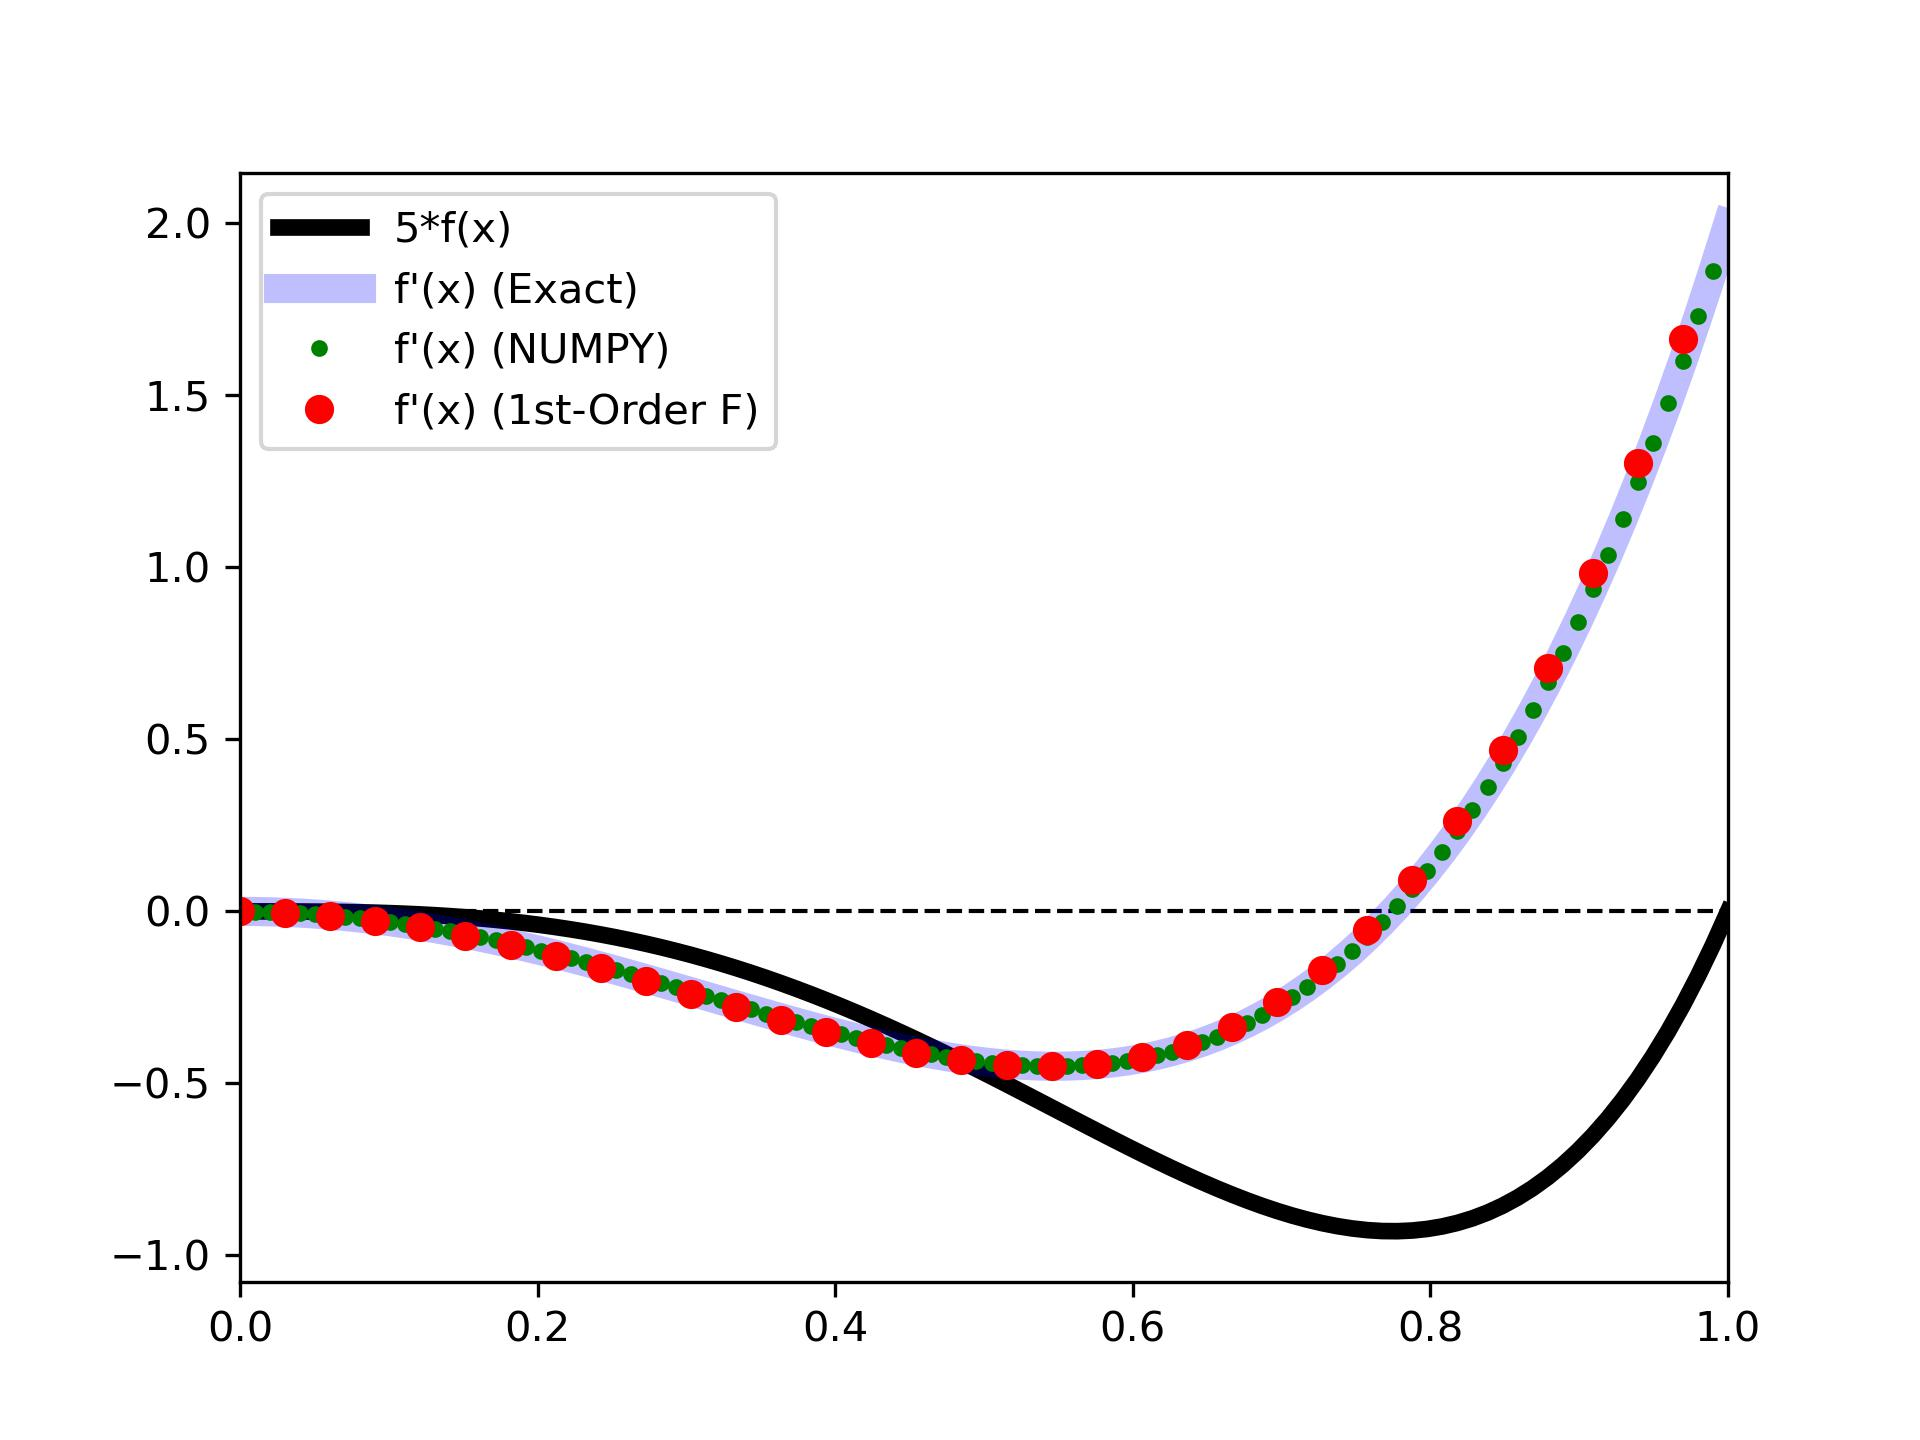
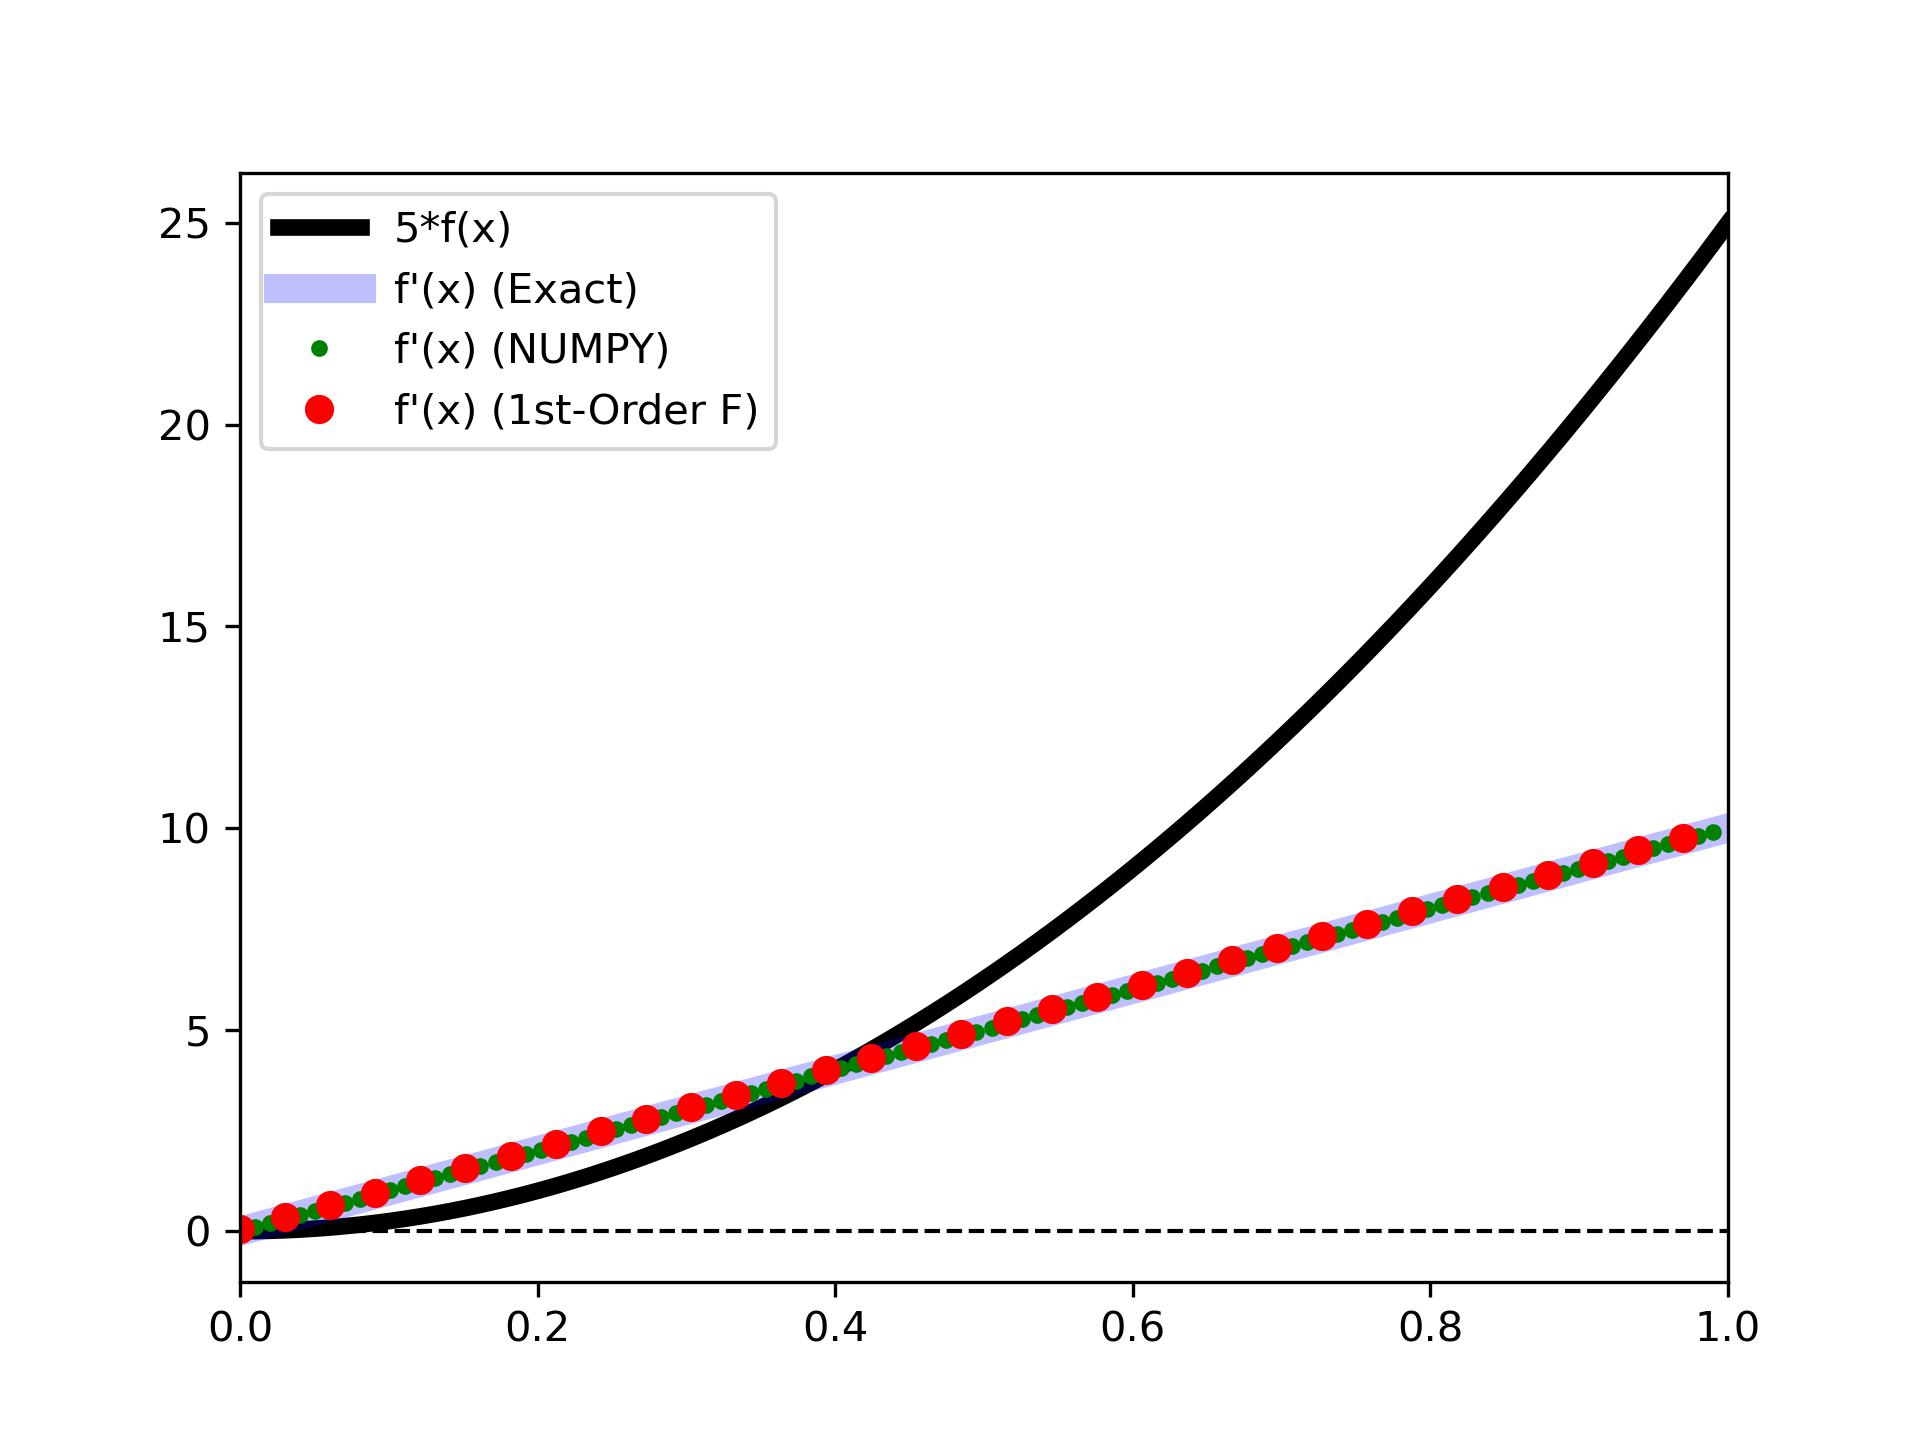
Added integration code

diff --git a/codes/Chapter_3/3_Numerical_Integration.py b/codes/Chapter_3/3_Numerical_Integration.py
@@ -1,0 +1,113 @@
+import numpy as np
+from matplotlib import pyplot as plt
+import subprocess as sp
+from scipy import integrate
+
+
+################# BEGIN USER INPUT #################
+def get_globals():
+    global DATA_DIR
+
+    DATA_DIR = "3_PLOTS_DATA"
+    sp.call(f"mkdir -p {DATA_DIR}",shell=True)
+
+def get_f_x( x ):
+        """
+        'x' can be number or array
+        """
+        return x ** 2
+
+def get_exact_integral():
+    return 1/3
+
+################# END USER INPUT #################
+
+#def get_NUMPY_deriv(f_x):
+#    return np.gradient(f_x,GRID)
+
+def get_Riemann_Integral(f_x, GRID):
+    # For-loop version
+    INTEGRAL = 0.0
+    Nx = len(GRID)
+    dx = GRID[1] - GRID[0]
+    for xi,x in enumerate(GRID):
+        INTEGRAL += f_x[ xi ] * dx
+    """
+    # Fast version
+    INTEGRAL = np.sum( f_x[:] ) * dx
+    """
+    return INTEGRAL
+
+def get_trapazoidal_Integral(f_x, GRID):
+    Nx = len(GRID)
+    dx = GRID[1] - GRID[0]
+    INTEGRAL = 0.0
+    for xi,x in enumerate(GRID):
+        if ( xi < Nx-1 ):
+            INTEGRAL += 0.5 * (f_x[ xi ] + f_x[ xi+1 ] ) * dx
+    return INTEGRAL
+
+def test_methods():
+    # Let's test all the methods once
+    Nx = 100
+    GRID = np.linspace( 0,1,Nx ) # START, END, NPOINTS   
+
+    f_x   = get_f_x( GRID )
+    I_R   = get_Riemann_Integral(f_x, GRID)
+    I_T   = get_trapazoidal_Integral(f_x, GRID)
+    
+    print("\nManual versions:")
+    print("\tRIEMANN      :", I_R)
+    print("\tTRAPAZOIDAL  :", I_T)
+    
+    print("\nSCIPY Versions:")
+    print("\tTRAPAZOIDAL :", integrate.trapezoid( f_x, GRID ) )
+    print("\tSIMPSON     :", integrate.simpson( f_x, GRID ) )
+    print("\tQUAD        :", integrate.quad( get_f_x, GRID[0], GRID[-1] )[0], "Error: %1.3e" % (integrate.quad( get_f_x, GRID[0], GRID[1] )[1]) )
+
+    print("\n\tEXACT     :", get_exact_integral())
+
+def get_convergence_plot():
+
+    ###########################
+    # Let's run for a bunch of different grid densities and check error
+    #del Nx, GRID # Remove global variables
+
+    Nx_LIST = np.logspace( 1,6,endpoint=True,dtype=int ) # [10**start, 10**stop]
+    RIEM    = np.zeros(( len(Nx_LIST) ))
+    TRAP_MAN    = np.zeros(( len(Nx_LIST) ))
+    TRAP    = np.zeros(( len(Nx_LIST) ))
+    SIMP    = np.zeros(( len(Nx_LIST) ))
+    QUAD    = np.zeros(( len(Nx_LIST) ))
+    for n,N in enumerate( Nx_LIST ):
+            GRID = np.linspace( 0,1,N ) # START, END, NPOINTS 
+            f_x         = get_f_x( GRID )
+            RIEM[n]     = get_Riemann_Integral(f_x, GRID)
+            TRAP_MAN[n] = get_trapazoidal_Integral(f_x, GRID)
+            TRAP[n]     = integrate.trapezoid( f_x, GRID )
+            if ( N%2 == 0 ): 
+                 SIMP[n] = integrate.simpson( f_x, GRID )
+            else:
+                 SIMP[n] = None
+            QUAD[n] = integrate.quad( get_f_x, GRID[0], GRID[-1] )[0]
+
+    plt.loglog(Nx_LIST, np.abs(RIEM-get_exact_integral()), "-", lw=3, c="black", label="RIEM (Man.)")
+    plt.loglog(Nx_LIST, np.abs(TRAP_MAN-get_exact_integral()), "-", lw=6, alpha=0.5, c="red", label="TRAP (Man.)")
+    plt.loglog(Nx_LIST, np.abs(TRAP-get_exact_integral()), "--", lw=3, c="red", label="TRAP (SCIPY)")
+    plt.loglog(Nx_LIST, np.abs(SIMP-get_exact_integral()), "o", lw=3, c="blue", label="SIMP (SCIPY)")
+    plt.loglog(Nx_LIST, np.abs(QUAD-get_exact_integral()), "-", lw=3, c="green", label="QUAD (SCIPY)")
+    plt.legend(loc='upper right')
+    plt.xlabel("Number of Function Points, Nx",fontsize=15)
+    plt.ylabel("$|X_{APPROX} - X_{EXACT}|$",fontsize=15)
+    plt.savefig(f"{DATA_DIR}/CONVERGENCE.jpg", dpi=600)
+
+
+def main():
+    get_globals()
+    test_methods()
+    get_convergence_plot()
+
+
+
+if ( __name__ == "__main__" ):
+    main()

diff --git a/codes/Chapter_3/2_Root_Finding.py b/codes/Chapter_3/2_Root_Finding.py
@@ -7,7 +7,6 @@ def get_globals():
     global TOL, MAX_STEP, XGRID
     TOL      = 10 ** -10                   # Stop search when {TOL} tolerance is reached
     MAX_STEP = 10 ** 4                     # Stop after {MAX_STEP} steps
-    XGRID    = np.linspace(0,2*np.pi,1000) # Function grid
     
     # The exact root of the function for comparison
     global EXACT_ROOT
@@ -21,7 +20,7 @@ def get_globals():
     # Newton-Raphson (Secant) method requires 
     #    initial position and guess for next position
     global x0, x1
-    x0 = 0
+    x0 = 5
     x1 = 6
 
     # Scipy needs an initial guess for the root
@@ -92,10 +91,10 @@ def do_Bisection_method():
         elif ( fbn*fcn < 0 ):
             an = cn
         else:
-            print("No root region found. Choosing smaller region.")
+            print("No root region found. Choosing larger region.")
             L = bn - an
-            an += L/8
-            bn -= L/8
+            an += L*2
+            bn -= L*2
             fan = get_function(an)
             fbn = get_function(bn)
 

diff --git a/codes/Chapter_3/1_Numerical_Derivatives.py b/codes/Chapter_3/1_Numerical_Derivatives.py
@@ -15,14 +15,16 @@ def get_globals():
 
 
 def get_f_x():
-    f_x   = x_GRID**5 - x_GRID**3
+    f_x   = x_GRID**2
+    #f_x   = x_GRID**5 - x_GRID**3
     #f_x   = np.sin(x_GRID*2*np.pi)**2
     #f_x   = (x_GRID-0.5) * np.exp( -(x_GRID - 0.5)**2 / 0.01 )
     return f_x    
 
 def get_exact_deriv():
-    return 5*x_GRID**4 - 3 * x_GRID**2
-    return 2*np.sin(x_GRID*2*np.pi)*np.cos(x_GRID*2*np.pi)*2*np.pi
+    return 2*x_GRID
+    #return 5*x_GRID**4 - 3 * x_GRID**2
+    #return 2*np.sin(x_GRID*2*np.pi)*np.cos(x_GRID*2*np.pi)*2*np.pi
     """
     return np.exp( -(x_GRID - 0.5)**2 / 0.01 ) \
            + (x_GRID-0.5) * (-2*(x_GRID - 0.5) / 0.01) \

diff --git a/homeworks/solutions/Chapter_2/HMWK_1b_FFT_Array.py b/homeworks/solutions/Chapter_2/HMWK_1b_FFT_Array.py
@@ -38,7 +38,7 @@ def get_4x4_DFT(): # 0, 1, 2, 3, ...
 
 def get_NxN_DFT(N): # 0, 1, 2, 3, ...
     """
-    Returns Nth-dimensional Discrete Fourier Transform (DFT) Matrix.
+    Returns NxN Discrete Fourier Transform (DFT) Matrix.
     """    
     gamma = np.exp(-2*np.pi/N * 1j)
     W = np.zeros(( N,N ), dtype=complex)
